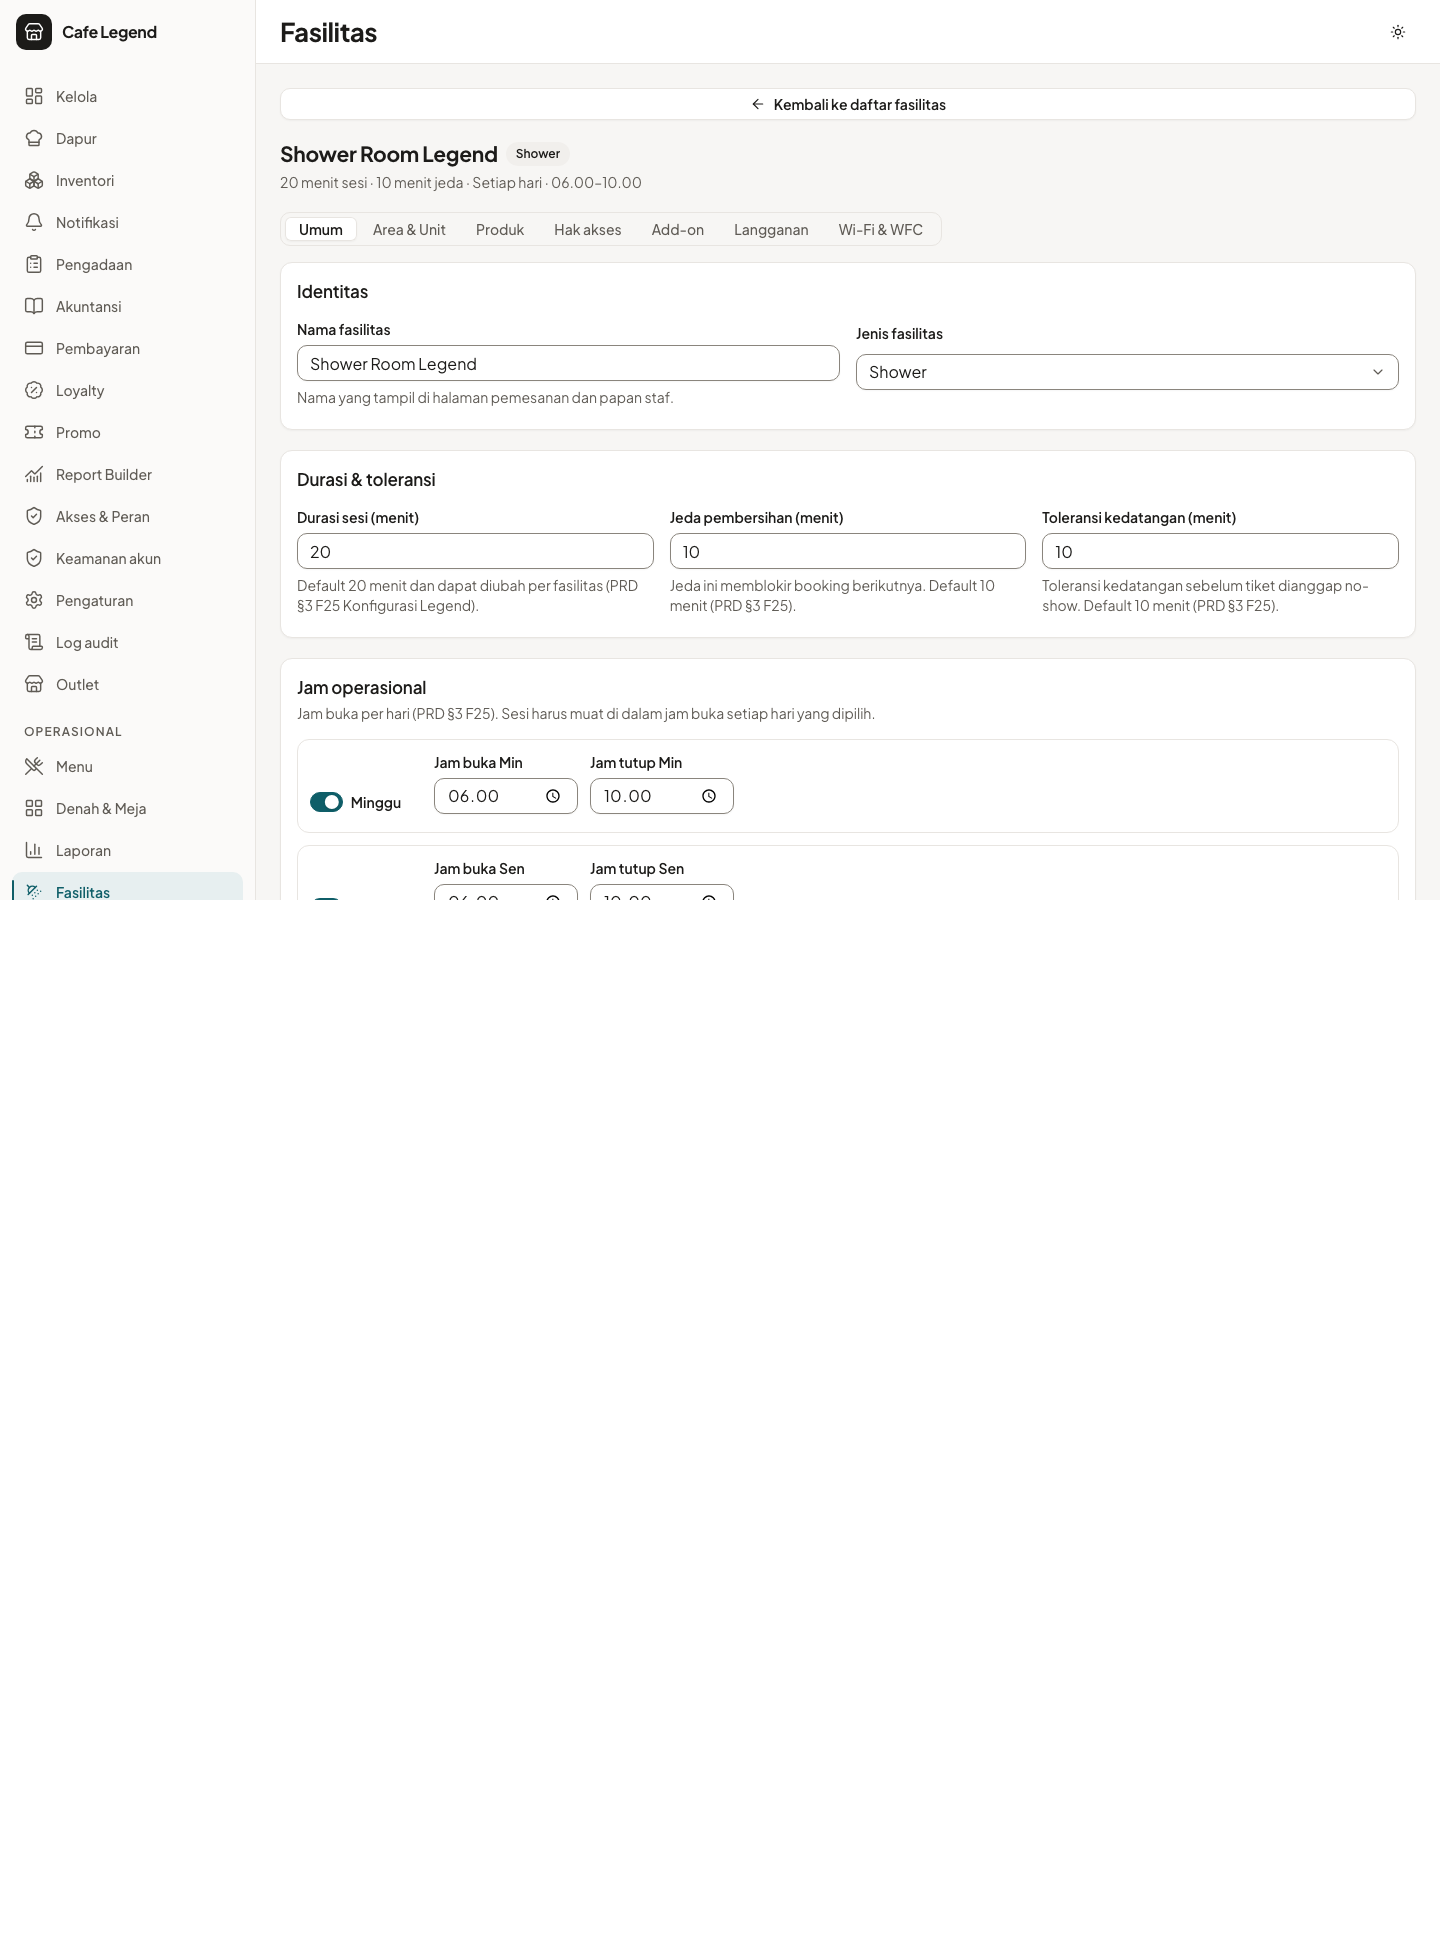
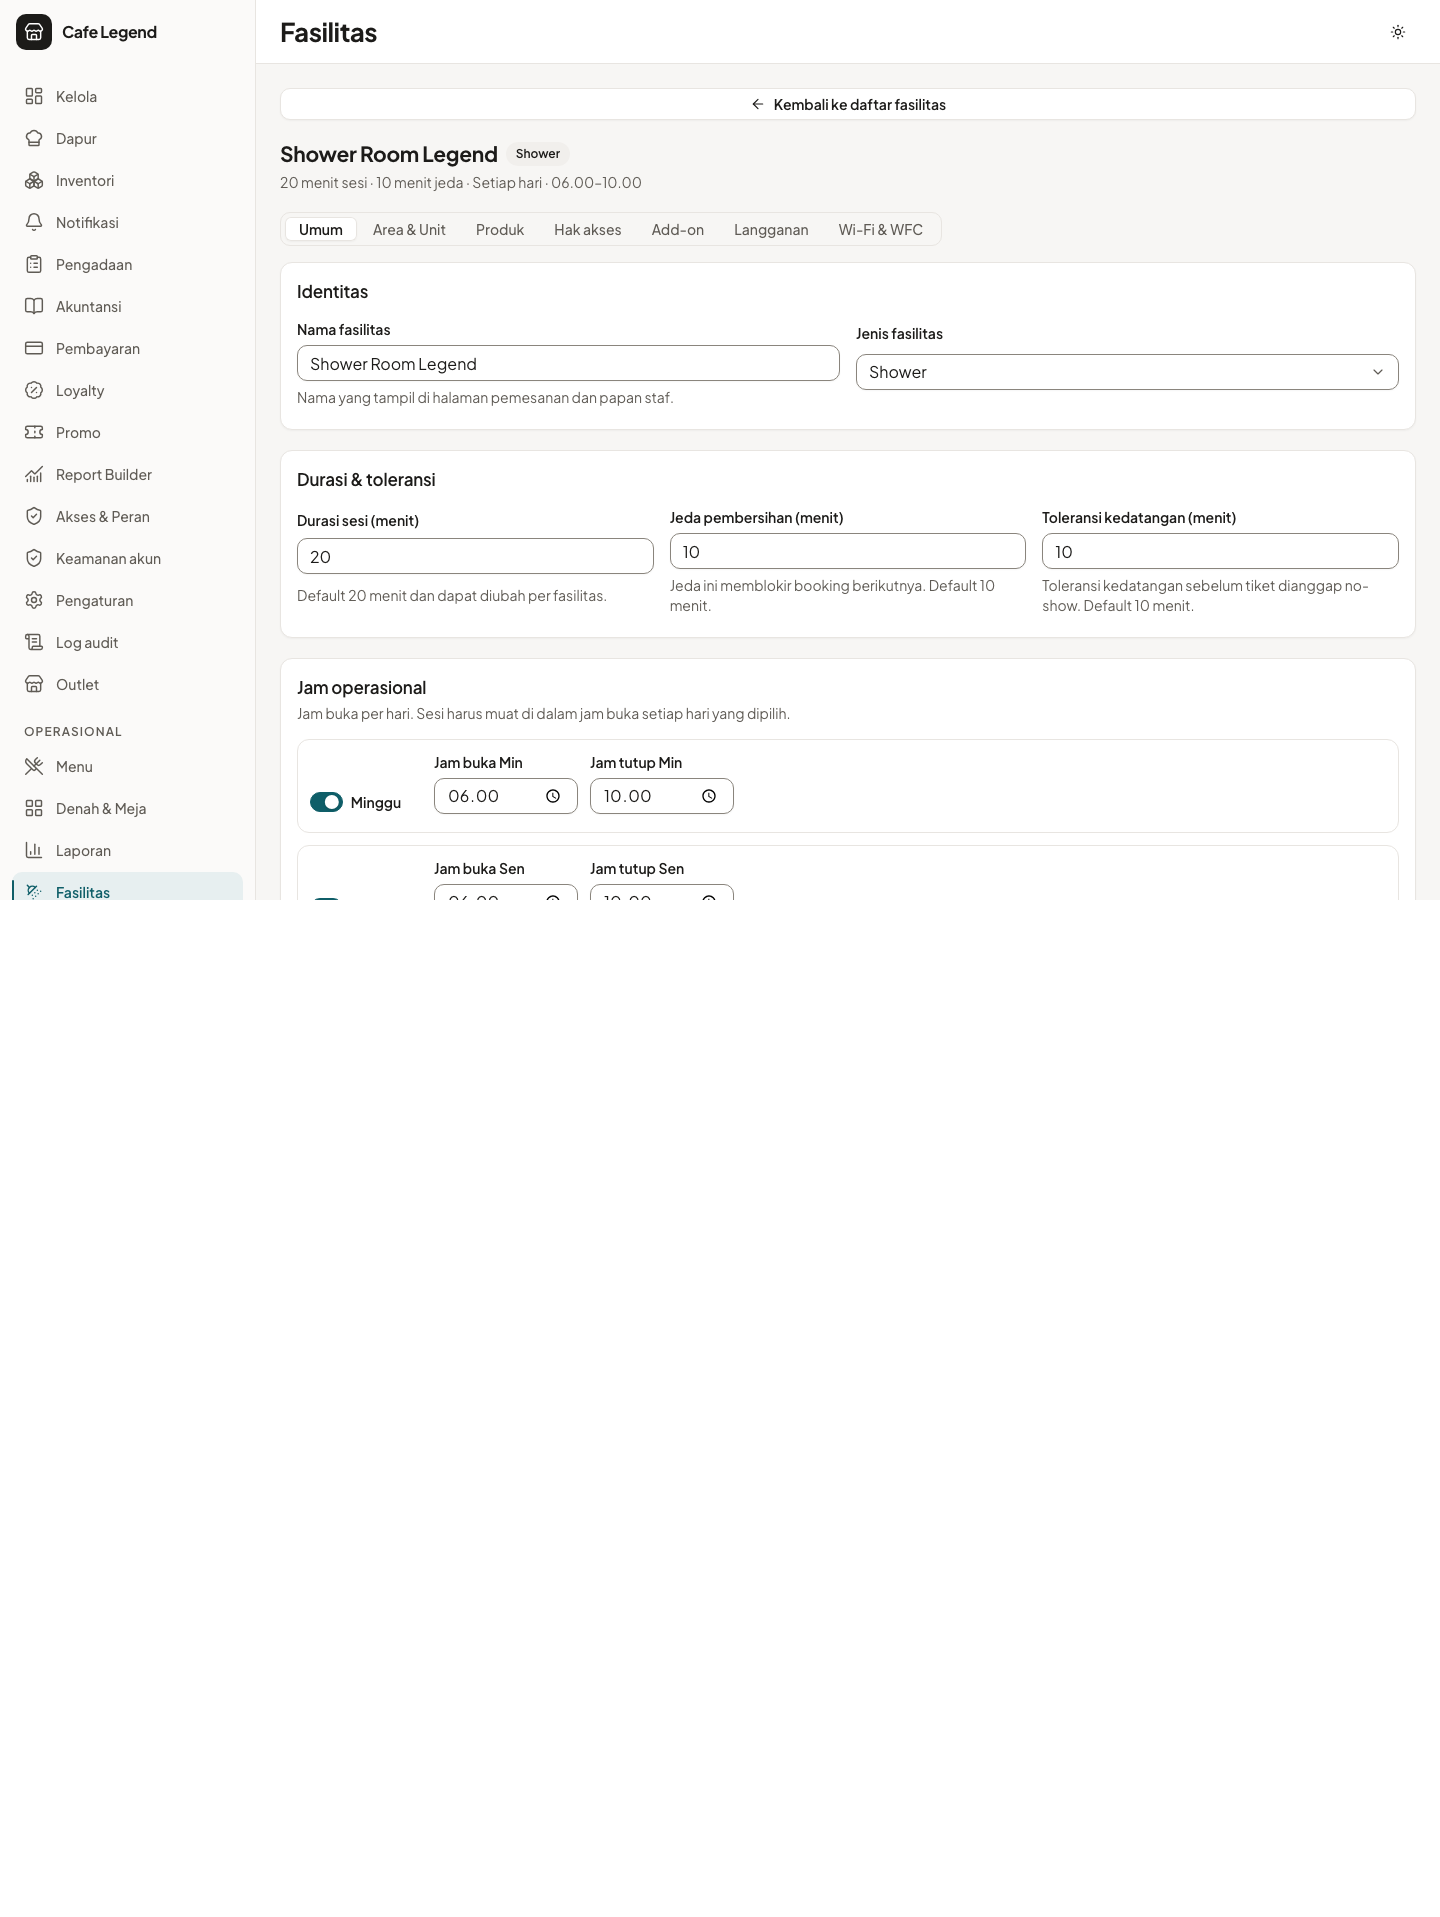
review(facility): tax-excl price hint, tier dupes, row error wiring, Wi-Fi multiple hint (legend-er32)

diff --git a/packages/shared/src/i18n/messages/facility-admin.ts b/packages/shared/src/i18n/messages/facility-admin.ts
@@ -19,6 +19,7 @@ export const facilityAdminMessages = {
     backToList: "Kembali ke daftar fasilitas",
     unlimited: "Tanpa batas",
     notSet: "Belum diatur",
+    priceExclTaxHint: "Harga belum termasuk pajak.",
   },
   list: {
     title: "Konfigurasi fasilitas",
@@ -104,22 +105,20 @@ export const facilityAdminMessages = {
     fieldsOpensAt: "Jam buka {day}",
     fieldsClosesAt: "Jam tutup {day}",
     hintsName: "Nama yang tampil di halaman pemesanan dan papan staf.",
-    hintsSessionMinutes:
-      "Default 20 menit dan dapat diubah per fasilitas (PRD §3 F25 Konfigurasi Legend).",
+    hintsSessionMinutes: "Default 20 menit dan dapat diubah per fasilitas.",
     hintsCleaningMinutes:
-      "Jeda ini memblokir booking berikutnya. Default 10 menit (PRD §3 F25).",
+      "Jeda ini memblokir booking berikutnya. Default 10 menit.",
     hintsArrivalGraceMinutes:
-      "Toleransi kedatangan sebelum tiket dianggap no-show. Default 10 menit (PRD §3 F25).",
-    hintsGraceMinutes:
-      "Kelebihan waktu dalam batas ini tidak dikenai biaya (PRD §3 F25 Sesi & Pengingat).",
+      "Toleransi kedatangan sebelum tiket dianggap no-show. Default 10 menit.",
+    hintsGraceMinutes: "Kelebihan waktu dalam batas ini tidak dikenai biaya.",
     hintsBlockMinutes: "Kelebihan waktu ditagih per blok yang dimulai.",
     hintsFeePerBlockIdr: "Biaya untuk setiap blok kelebihan waktu.",
     hintsFreeCancelMinutesBefore:
-      "Pembatalan lebih awal dari ini mengembalikan hak akses penuh (PRD §3 F25 Pembatalan).",
+      "Pembatalan lebih awal dari ini mengembalikan hak akses penuh.",
     hintsLateCancelFeeIdr:
       "Wajib lebih dari 0 bila kebijakannya refund sebagian.",
     hintsHours:
-      "Jam buka per hari (PRD §3 F25). Sesi harus muat di dalam jam buka setiap hari yang dipilih.",
+      "Jam buka per hari. Sesi harus muat di dalam jam buka setiap hari yang dipilih.",
     hintsResolution: "Kebijakan ini berlaku untuk tiket yang sudah terbit.",
     save: "Simpan pengaturan umum",
     saved: "Pengaturan umum disimpan.",
@@ -166,7 +165,7 @@ export const facilityAdminMessages = {
   areas: {
     title: "Area & unit",
     description:
-      "Hierarki fasilitas → area → unit (PRD §3 F25 Model Generik). Unit adalah bilik yang dipesan tamu.",
+      "Hierarki fasilitas → area → unit. Unit adalah bilik yang dipesan tamu.",
     addArea: "Tambah area",
     addUnit: "Tambah unit",
     editArea: "Ubah area",
@@ -214,7 +213,7 @@ export const facilityAdminMessages = {
   products: {
     title: "Produk fasilitas",
     description:
-      "Satu katalog produk; hak aksesnya dapat diperoleh lewat lima cara (PRD §3 F25 Produk & Hak Akses).",
+      "Satu katalog produk; hak aksesnya dapat diperoleh lewat lima cara.",
     add: "Tambah produk",
     edit: "Ubah produk {name}",
     columnsName: "Produk",
@@ -249,8 +248,7 @@ export const facilityAdminMessages = {
     fieldsMaxPerDay: "Maksimum sesi per hari",
     fieldsMaxPerDayHint: "Kosongkan untuk tanpa batas harian.",
     fieldsMenuItem: "Paket menu",
-    fieldsMenuItemHint:
-      "Paket menu yang menerbitkan komponen fasilitas ini (PRD §3 F25 Menu paket).",
+    fieldsMenuItemHint: "Paket menu yang menerbitkan komponen fasilitas ini.",
     fieldsActive: "Produk aktif dijual",
     menuNone: "Tanpa paket menu",
     menuFallback: "Paket #{id}",
@@ -268,7 +266,7 @@ export const facilityAdminMessages = {
   sources: {
     title: "Sumber hak akses",
     description:
-      "Lima cara pelanggan memperoleh sesi; seluruhnya dikonfigurasi admin (PRD §3 F25 Produk & Hak Akses).",
+      "Lima cara pelanggan memperoleh sesi; seluruhnya dikonfigurasi admin.",
     purchase: "Sekali bayar",
     package: "Menu paket",
     min_spend: "Minimum belanja",
@@ -340,7 +338,7 @@ export const facilityAdminMessages = {
   addons: {
     title: "Add-on",
     description:
-      "Handuk, amenities kit, locker, dan hair dryer; aktif atau nonaktif per fasilitas (PRD §3 F25 Add-on Opsional).",
+      "Handuk, amenities kit, locker, dan hair dryer; aktif atau nonaktif per fasilitas.",
     add: "Tambah add-on",
     edit: "Ubah add-on {name}",
     columnsName: "Add-on",
@@ -379,7 +377,7 @@ export const facilityAdminMessages = {
   subscriptions: {
     title: "Paket langganan",
     description:
-      "Kuota sesi per periode, ditagih lewat Recurring Billing DOIT (PRD §3 F25 Langganan Bulanan).",
+      "Kuota sesi per periode, ditagih lewat Recurring Billing DOIT.",
     add: "Tambah paket",
     edit: "Ubah paket {name}",
     columnsName: "Paket",
@@ -421,7 +419,7 @@ export const facilityAdminMessages = {
   wifi: {
     title: "Wi-Fi & WFC",
     description:
-      "Kuota gratis, bonus belanja, jam ramai, dan minimum spend per zona (PRD §3 F25 Wi-Fi Tamu & WFC).",
+      "Kuota gratis, bonus belanja, jam ramai, dan minimum spend per zona.",
     empty: "Belum ada kebijakan Wi-Fi",
     emptyHint: "Kebijakan Wi-Fi dibuat per zona lantai.",
     zoneWfc: "Zona WFC",
@@ -448,6 +446,8 @@ export const facilityAdminMessages = {
     fieldsFreeMinutes: "Menit gratis per hari",
     fieldsPeakFreeMinutes: "Menit gratis saat jam ramai",
     fieldsSpendPerExtraHourIdr: "Belanja per tambahan (Rp)",
+    fieldsSpendPerExtraHourHint:
+      "Hanya kelipatan penuh yang dihitung: dengan Rp30.000, belanja Rp90.000 = 3 tambahan, Rp45.000 = 1 tambahan.",
     fieldsExtraMinutes: "Menit tambahan per langkah belanja",
     fieldsMaxDevices: "Maksimum perangkat per akun",
     fieldsBaseSpeedKbps: "Kecepatan dasar (Kbps)",
@@ -487,6 +487,7 @@ export const facilityAdminMessages = {
     spendStep: "Belanja per tambahan harus lebih dari 0.",
     speedOrder: "Kecepatan penuh harus lebih besar dari kecepatan dasar.",
     tierKeyLength: "Nama tier harus 1–30 karakter.",
+    tierKeyDuplicate: "Nama tier tidak boleh dobel.",
     tierMinutes: "Menit bonus harus 0–720.",
     timeRequired: "Jam mulai dan selesai wajib diisi.",
     saveFailed: "Perubahan gagal disimpan.",

diff --git a/apps/web/src/features/facility-admin/components/wifi-tab.tsx b/apps/web/src/features/facility-admin/components/wifi-tab.tsx
@@ -384,7 +384,7 @@ function WifiDialog({
         return;
       }
       if (seenKeys.has(key)) {
-        nextTiers[index] = t("facilityAdmin.errors.tierKeyLength");
+        nextTiers[index] = t("facilityAdmin.errors.tierKeyDuplicate");
         return;
       }
       seenKeys.add(key);
@@ -527,6 +527,7 @@ function WifiDialog({
               </FormField>
               <FormField
                 label={t("facilityAdmin.wifi.fieldsSpendPerExtraHourIdr")}
+                hint={t("facilityAdmin.wifi.fieldsSpendPerExtraHourHint")}
                 error={errors.spendPerExtraHourIdr}
                 required
               >
@@ -735,6 +736,12 @@ function WifiDialog({
                     >
                       <Input
                         type="time"
+                        aria-invalid={peakErrors[index] ? true : undefined}
+                        aria-describedby={
+                          peakErrors[index]
+                            ? `wifi-peak-${index}-error`
+                            : undefined
+                        }
                         value={window.startsAt}
                         onChange={(event) =>
                           updatePeak(index, {
@@ -751,6 +758,12 @@ function WifiDialog({
                     >
                       <Input
                         type="time"
+                        aria-invalid={peakErrors[index] ? true : undefined}
+                        aria-describedby={
+                          peakErrors[index]
+                            ? `wifi-peak-${index}-error`
+                            : undefined
+                        }
                         value={window.endsAt}
                         onChange={(event) =>
                           updatePeak(index, { endsAt: event.target.value })
@@ -759,7 +772,10 @@ function WifiDialog({
                     </FormField>
                   </div>
                   {peakErrors[index] && (
-                    <p className="text-sm leading-5 font-medium text-danger">
+                    <p
+                      id={`wifi-peak-${index}-error`}
+                      className="text-sm leading-5 font-medium text-danger"
+                    >
                       {peakErrors[index]}
                     </p>
                   )}
@@ -800,6 +816,12 @@ function WifiDialog({
                 >
                   <FormField label={t("facilityAdmin.wifi.tierKey")} required>
                     <Input
+                      aria-invalid={tierErrors[index] ? true : undefined}
+                      aria-describedby={
+                        tierErrors[index]
+                          ? `wifi-tier-${index}-error`
+                          : undefined
+                      }
                       value={tier.key}
                       onChange={(event) =>
                         updateTier(index, { key: event.target.value })
@@ -813,6 +835,12 @@ function WifiDialog({
                   >
                     <Input
                       inputMode="numeric"
+                      aria-invalid={tierErrors[index] ? true : undefined}
+                      aria-describedby={
+                        tierErrors[index]
+                          ? `wifi-tier-${index}-error`
+                          : undefined
+                      }
                       value={tier.minutes}
                       onChange={(event) =>
                         updateTier(index, { minutes: event.target.value })
@@ -837,7 +865,10 @@ function WifiDialog({
                     <Trash2 aria-hidden="true" />
                   </Button>
                   {tierErrors[index] && (
-                    <p className="text-sm leading-5 font-medium text-danger sm:col-span-3">
+                    <p
+                      id={`wifi-tier-${index}-error`}
+                      className="text-sm leading-5 font-medium text-danger sm:col-span-3"
+                    >
                       {tierErrors[index]}
                     </p>
                   )}

diff --git a/apps/web/src/features/facility-admin/components/general-tab.tsx b/apps/web/src/features/facility-admin/components/general-tab.tsx
@@ -458,6 +458,12 @@ export function GeneralTab({
                   >
                     <Input
                       type="time"
+                      aria-invalid={hoursErrors[day] ? true : undefined}
+                      aria-describedby={
+                        hoursErrors[day]
+                          ? `facility-day-${day}-error`
+                          : undefined
+                      }
                       value={row.opensAt}
                       disabled={!row.enabled}
                       onChange={(event) =>
@@ -474,6 +480,12 @@ export function GeneralTab({
                   >
                     <Input
                       type="time"
+                      aria-invalid={hoursErrors[day] ? true : undefined}
+                      aria-describedby={
+                        hoursErrors[day]
+                          ? `facility-day-${day}-error`
+                          : undefined
+                      }
                       value={row.closesAt}
                       disabled={!row.enabled}
                       onChange={(event) =>
@@ -483,7 +495,10 @@ export function GeneralTab({
                   </FormField>
                 </div>
                 {hoursErrors[day] && (
-                  <p className="text-sm leading-5 font-medium text-danger">
+                  <p
+                    id={`facility-day-${day}-error`}
+                    className="text-sm leading-5 font-medium text-danger"
+                  >
                     {hoursErrors[day]}
                   </p>
                 )}

diff --git a/e2e/legend-er32.mock.spec.ts b/e2e/legend-er32.mock.spec.ts
@@ -133,7 +133,9 @@ test("legend-er32 F25 Model Generik: an area and a unit are added", async ({
   await page.getByRole("button", { name: "Tambah area" }).click();
   await page.getByLabel("Nama area").fill("Area Keluarga");
   await page.getByRole("button", { name: "Simpan area" }).click();
-  await expect(page.getByText("Area ditambahkan.", { exact: true })).toBeVisible();
+  await expect(
+    page.getByText("Area ditambahkan.", { exact: true }),
+  ).toBeVisible();
   const area = page
     .locator('[data-slot="facility-area"]')
     .filter({ hasText: "Area Keluarga" });
@@ -142,7 +144,9 @@ test("legend-er32 F25 Model Generik: an area and a unit are added", async ({
   await area.getByRole("button", { name: "Tambah unit" }).click();
   await page.getByLabel("Kode unit").fill("K1");
   await page.getByRole("button", { name: "Simpan unit" }).click();
-  await expect(page.getByText("Unit ditambahkan.", { exact: true })).toBeVisible();
+  await expect(
+    page.getByText("Unit ditambahkan.", { exact: true }),
+  ).toBeVisible();
   await expect(
     area.locator('[data-slot="facility-unit"]').filter({ hasText: "K1" }),
   ).toBeVisible();

diff --git a/apps/web/src/features/facility-admin/components/entitlements-tab.tsx b/apps/web/src/features/facility-admin/components/entitlements-tab.tsx
@@ -348,6 +348,8 @@ function RuleDialog({
         next.tierKeys = t("facilityAdmin.entitlements.errorsTierRequired");
       else if (tiers.some((key) => key.length > 30))
         next.tierKeys = t("facilityAdmin.errors.tierKeyLength");
+      else if (new Set(tiers).size !== tiers.length)
+        next.tierKeys = t("facilityAdmin.errors.tierKeyDuplicate");
     }
 
     setErrors(next);

diff --git a/apps/web/src/features/facility-admin/components/subscriptions-tab.tsx b/apps/web/src/features/facility-admin/components/subscriptions-tab.tsx
@@ -386,6 +386,7 @@ function PlanDialog({
           <div className="grid gap-4 sm:grid-cols-2">
             <FormField
               label={t("facilityAdmin.subscriptions.fieldsPrice")}
+              hint={t("facilityAdmin.common.priceExclTaxHint")}
               error={errors.priceIdr}
               required
             >

diff --git a/apps/web/src/features/facility-admin/components/products-tab.tsx b/apps/web/src/features/facility-admin/components/products-tab.tsx
@@ -590,6 +590,7 @@ function ProductDialog({
           <div className="grid gap-4 sm:grid-cols-3">
             <FormField
               label={t("facilityAdmin.products.fieldsPrice")}
+              hint={t("facilityAdmin.common.priceExclTaxHint")}
               error={errors.priceIdr}
               required
             >

diff --git a/apps/web/src/features/facility-admin/components/addons-tab.tsx b/apps/web/src/features/facility-admin/components/addons-tab.tsx
@@ -373,6 +373,7 @@ function AddonDialog({
           </FormField>
           <FormField
             label={t("facilityAdmin.addons.fieldsPrice")}
+            hint={t("facilityAdmin.common.priceExclTaxHint")}
             error={errors.priceIdr}
             required
           >
